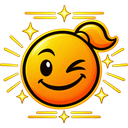
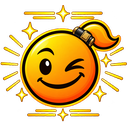
chore: makeSources complete, advance to code[1.0.0]
Regenerate the stale ModIcon.png from its source.

Changed region(s): [[0.0, 0.0312, 1.0, 0.9688], [0.0625, 0.25, 0.125, 0.3125]]

diff --git a/STATUS.md b/STATUS.md
@@ -8,7 +8,7 @@ packageId:    nelim.neveroutofprint
 repo:         Rimworld-Never-Out-Of-Print
 visibility:   public
 detached:     yes
-workflow_stage: makeSources
+workflow_stage: code[1.0.0]
 licence:      open
 licence_at:   MIT (Vanilla Books Expanded Expanded, Ben Lubar and Efi, continued by Mlie); own C#, rule packs and translations also MIT
 upstream_mod_remotes:
@@ -18,6 +18,7 @@ showcase:     blocked
 tested_on:
 workshop:
 remaining:
+  - resolved 2026-10-13: makeSources complete, advanced to code[1.0.0]. 2.b: Mod/About/ModIcon.png was older than Art/ModIcon-source.png (2026-10-03 vs 2026-10-04), regenerated by ffmpeg Lanczos, 128x128 RGBA, 27.9 KB; ModIcon.ico and Preview chain re-rendered the same day. 2.e: Preview-source.png read at 268 px (press identifiable, no face), Measure-Palette 2 families, Vmean 0.346; the painted-render check (vignette, grain) is a judgement call on an illustration the owner already accepted, not reopened.
   - audit 2026-10-13 (AUDIT.md section 16, revision after 3cb68db): retained state makeSources (was done). Cause: 2.f/10.e Art/ was not the minimal set (echo-preview.png existed while Preview.config.json named echo.png; PROMPT_NeverOutOfPrint.md still tracked). Both fixed in this pass, Preview re-rendered (0-preview.png byte copy checked).
   - resolved 2026-10-13: Harmony declared in About.xml modDependencies (brrainz.harmony); the three patches in Source/HarmonyPatches.cs need it at runtime. Earlier dependencies: declared was wrong.
   - resolved 2026-10-13: <author> now follows the format; THANKS names Harmony, Vanilla Books Expanded, Pickle and PickleTools (development only); Workshop links on the mod names; em dashes removed from the repository docs; *.dds in .gitignore; CHANGELOG [0.1.0] added (PublishedFileId.txt dated 2026-10-01; no git tag exists); TEST_SCENARIOS.md written.
@@ -43,7 +44,7 @@ remaining:
   - unverified: GitHub social-preview image not set (PUBLISHING.md, "Topics et image de partage GitHub"), no API/gh path exists for it, only the repo Settings page through a browser; topics (rimworld, rimworld-mod, mod) were set by gh. Set the image once ready, via Claude in Chrome or by hand.
 session:      local_6cf3cb3c-08c2-4179-84cc-d5e727e5fe98
 updated:      2026-10-13, audit retained makeSources and fixed Art/, dependencies, docs (see remaining); 2026-09-30, offline test harness written (93 checks) and the 2026-09-30 French gender-agreement review pass completed (see `remaining`); 2026-09-29 reconstructed from scratch after the 2026-09-06 build was deleted (duplicate coverage by living mods, see BACKLOG.md history in the mod's memory file); namespace/assembly/defName prefix changed from the deleted build's `PrintingPress` to `NeverOutOfPrint` specifically to avoid colliding with Zaljerem's living `zal.printingpress` mod at def-load (two assemblies exporting the same full type name). Session title corrected 2026-09-29: first set to `neveroutofprint / port`, wrong per AUDIT.md, the title uses `workflow_stage`, not `stage` (`stage` has only six codes and would have dropped the finer `horsMonoRepo` state); renamed to `neveroutofprint / horsMonoRepo`, then to `neveroutofprint / l10n` as workflow_stage advanced.
-protocols_read_sha: 392234bae633f23b1f25011ab3b2e537c846aff5
+protocols_read_sha: 65e09838c8023b798d4ba0ff04df04284a96f11e
 ---
 
 # Never Out of Print - status
